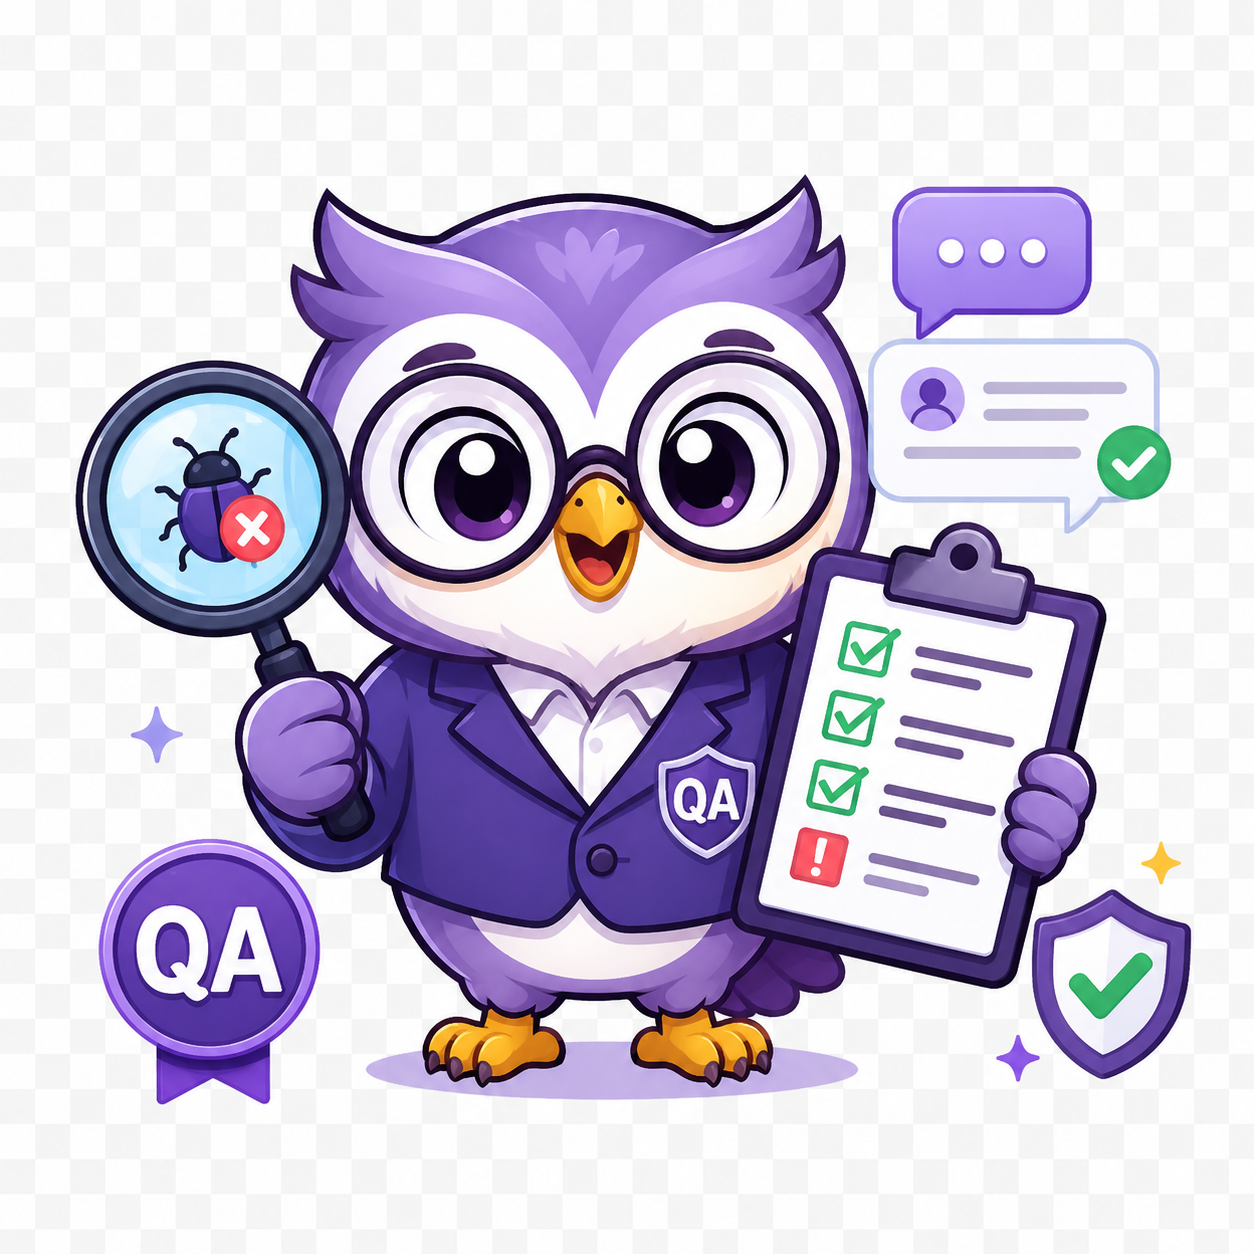
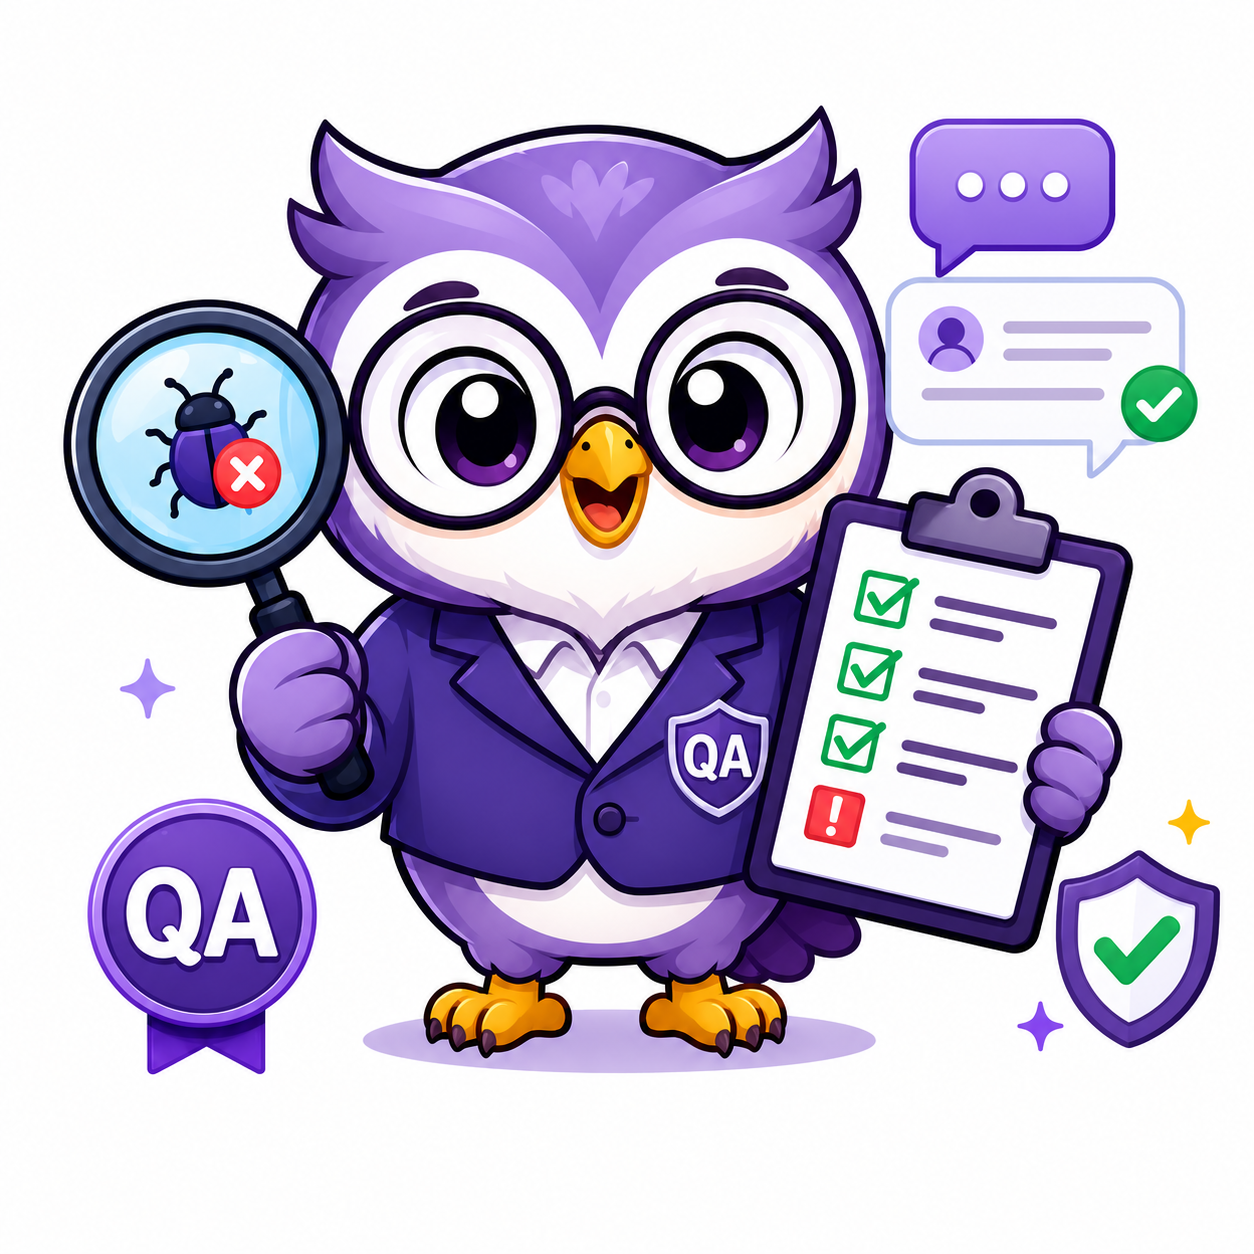
feat: add animated QA loading mascot

diff --git a/src/LoadingMascot.tsx b/src/LoadingMascot.tsx
@@ -28,11 +28,6 @@ export default function LoadingMascot({
             40% { transform: translateY(-7px); opacity: 1; }
           }
 
-          @keyframes qaSparkle {
-            0%, 100% { transform: scale(.85) rotate(0deg); opacity: .45; }
-            50% { transform: scale(1.15) rotate(12deg); opacity: 1; }
-          }
-
           .qa-owl-float {
             animation: qaOwlFloat 2.4s ease-in-out infinite;
           }
@@ -44,17 +39,10 @@ export default function LoadingMascot({
           .qa-loading-dot {
             animation: qaLoadingDot 1.2s ease-in-out infinite;
           }
-
-          .qa-sparkle {
-            animation: qaSparkle 1.8s ease-in-out infinite;
-          }
         `}
       </style>
 
       <div className="relative w-full max-w-[420px] rounded-[32px] border border-violet-200/80 bg-white/85 px-7 py-8 text-center shadow-[0_24px_70px_rgba(109,40,217,0.16)] backdrop-blur-xl">
-        <div className="pointer-events-none absolute -top-5 left-8 text-2xl qa-sparkle">✨</div>
-        <div className="pointer-events-none absolute right-9 top-8 text-xl qa-sparkle" style={{ animationDelay: "0.35s" }}>💜</div>
-
         <div className="relative mx-auto h-40 w-40 sm:h-48 sm:w-48">
           <div className="qa-owl-glow absolute inset-x-5 bottom-1 h-8 rounded-full bg-violet-400/25 blur-xl" />
           <img